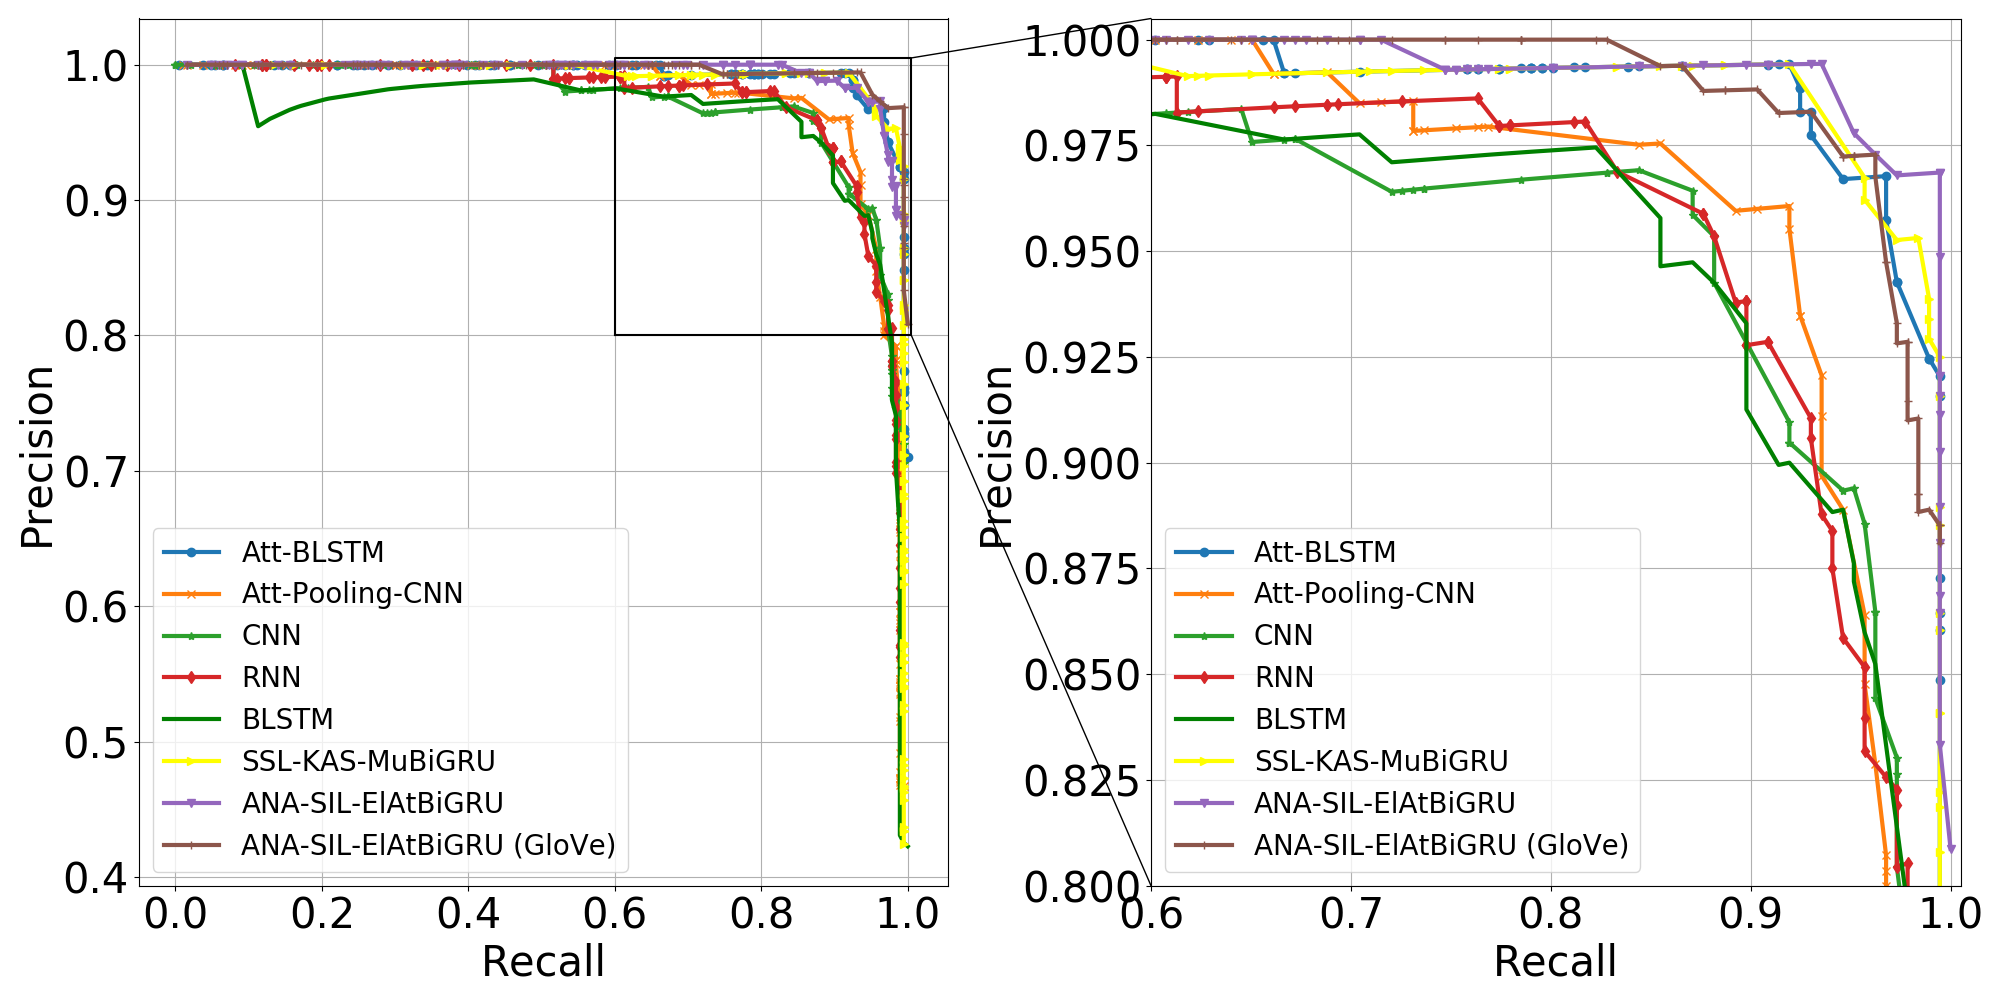
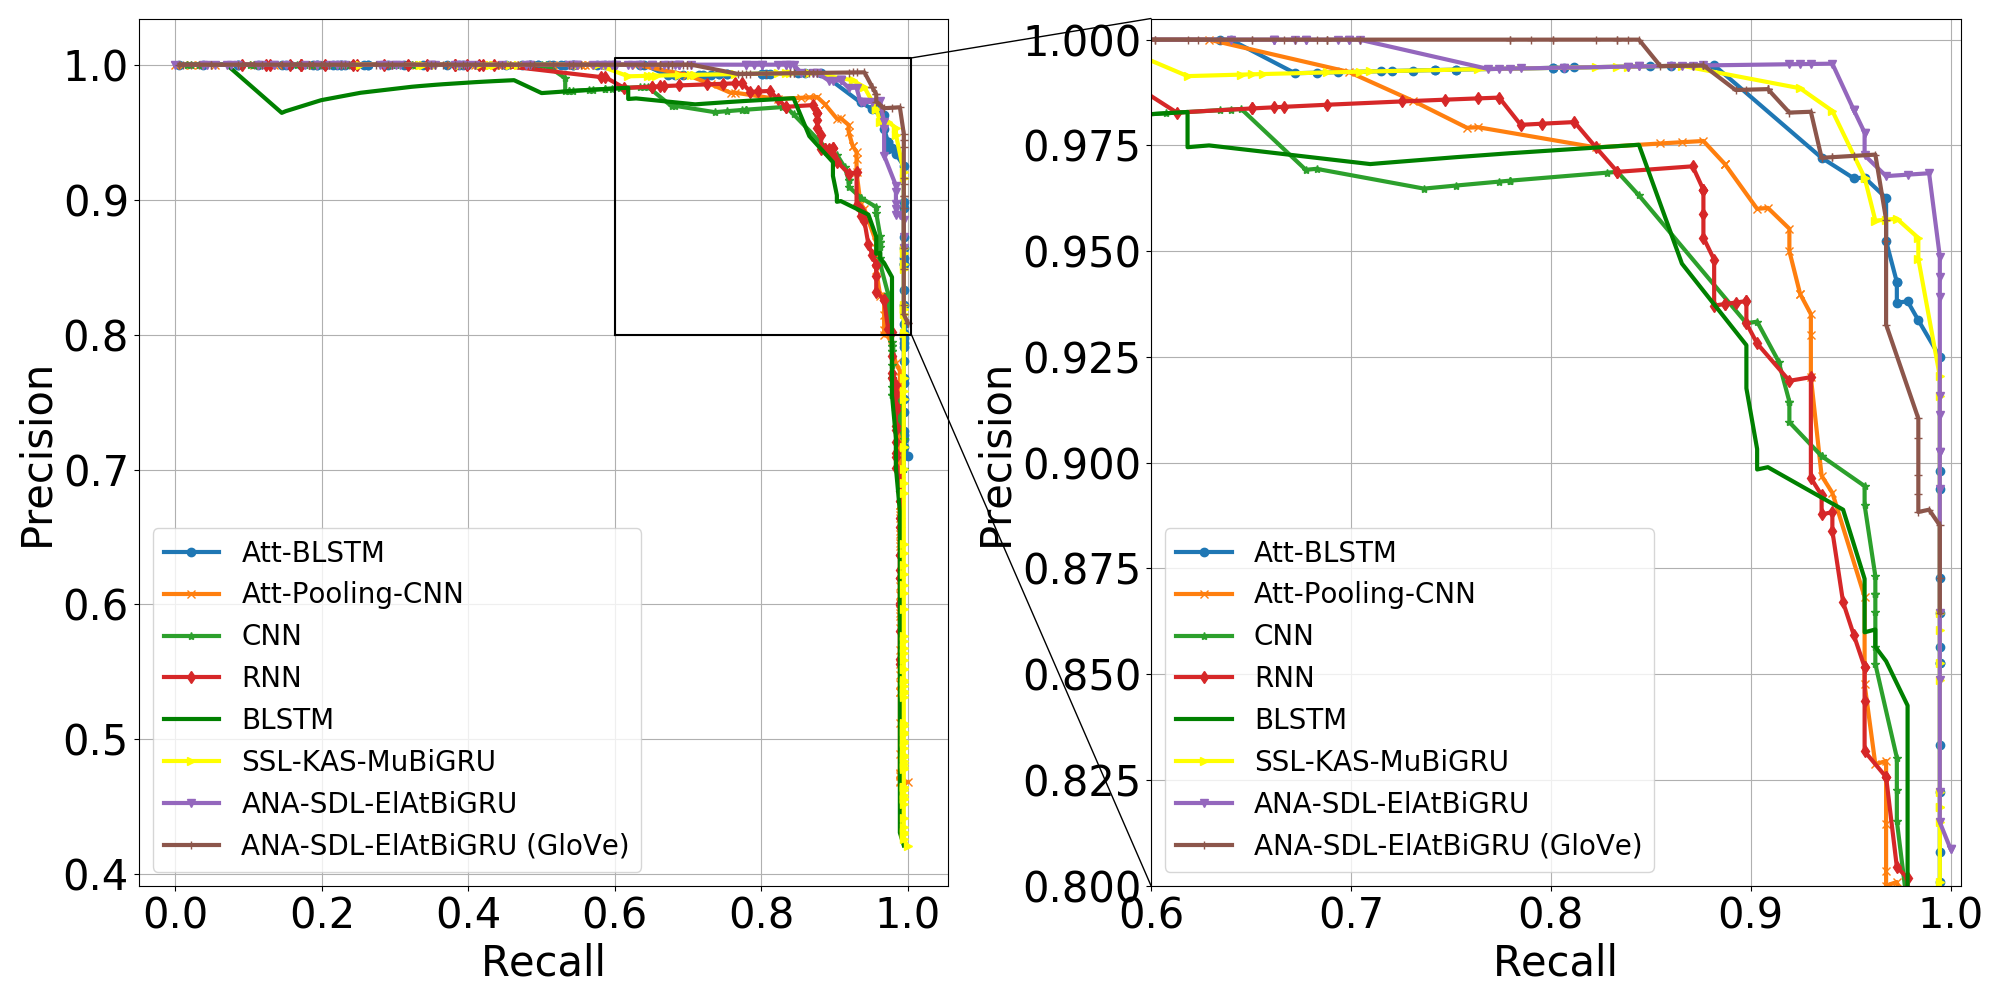
add SDL

diff --git a/ANASLELMO_in_Conll/anaSdlElmoModel.py b/ANASLELMO_in_Conll/anaSdlElmoModel.py
@@ -23,7 +23,7 @@ import os
 from dataProcessConll import ELMO_CONLL
 from customLayers import Input_keywords_DotLayer, concat_attention_layer3_1, concat_attention_layer3_2, concat_attention_layer3_3
 from customLoss import Stimulation_loss
-from ComparedLossFun.CenterLoss import center_loss, neg_center_loss
+from ComparedLossFun.CenterLoss import center_loss, neg_center_loss, sdl
 
 import smtplib
 from email.mime.text import MIMEText
@@ -118,15 +118,15 @@ class Network:
         # self.save_result = "../result/1/result.txt"
 
         # save ACCURACY picture path
-        self.save_picAcc_path = "../result/ANA-CL-ElAtBiGRU/train-test-accuracy.jpg"
+        self.save_picAcc_path = "../result/ANA-SDL-ElAtBiGRU/train-test-accuracy.jpg"
         # save F1 picture path
-        self.save_picF1_path = "../result/ANA-CL-ElAtBiGRU/f1.jpg"
-        self.save_picAllAcc_path = "../result/ANA-CL-ElAtBiGRU/test_all_accuracy.jpg"
-        self.save_picAllRec_path = "../result/ANA-CL-ElAtBiGRU/test_all_recall.jpg"
+        self.save_picF1_path = "../result/ANA-SDL-ElAtBiGRU/f1.jpg"
+        self.save_picAllAcc_path = "../result/ANA-SDL-ElAtBiGRU/test_all_accuracy.jpg"
+        self.save_picAllRec_path = "../result/ANA-SDL-ElAtBiGRU/test_all_recall.jpg"
         # save train loss picture path
-        self.save_lossTrain_path = "../result/ANA-CL-ElAtBiGRU/train_loss.jpg"
+        self.save_lossTrain_path = "../result/ANA-SDL-ElAtBiGRU/train_loss.jpg"
         # save test loss picture path
-        self.save_lossTest_path = "../result/ANA-CL-ElAtBiGRU/test_loss.jpg"
+        self.save_lossTest_path = "../result/ANA-SDL-ElAtBiGRU/test_loss.jpg"
         # save result file
         self.save_result = "../result/ANA-CL-ElAtBiGRU/result.txt"
 
@@ -142,7 +142,7 @@ class Network:
 
         """ PR-data """
         # self.pr_data = '../result/experiment_PR/1/ANA-SL-ElAtBiGRU_conll04.npz'
-        self.pr_data = '../result/experiment_PR/ANA-CL-ElAtBiGRU_conll04.npz'
+        self.pr_data = '../result/experiment_PR/ANA-SDL-ElAtBiGRU_conll04.npz'
 
     def bulit_gru(self, input_var=None, mask_var=None, input_root=None, input_e1=None, input_e2=None):
         """
@@ -483,7 +483,7 @@ if __name__ == "__main__":
     l_split = lasagne.layers.get_output(l_merge_output)
 
     _, wrong_pre, true_pre, stimulative = Stimulation_loss(prediction, target_var)
-    center_loss_value, new_centers = neg_center_loss(l_split, target_var, model.alpha, centers)
+    center_loss_value, new_centers = sdl(l_split, target_var, model.alpha, centers)
     center_loss_value = model.cl_lambda * center_loss_value
     loss = stimulative * lasagne.objectives.categorical_crossentropy(prediction, target_var)
 
@@ -512,7 +512,7 @@ if __name__ == "__main__":
 
     # loss, wrong_pre, true_pre, stimulative = Stimulation_loss(l_merge_output, target_var)
     _, wrong_pre, true_pre, stimulative = Stimulation_loss(prediction, target_var)
-    center_loss_value, new_centers = neg_center_loss(l_split, target_var, model.alpha, centers)
+    center_loss_value, new_centers = sdl(l_split, target_var, model.alpha, centers)
     loss_batch = stimulative * lasagne.objectives.categorical_crossentropy(prediction, target_var)
     center_loss_value = model.cl_lambda * center_loss_value
     loss = T.mean(loss_batch + center_loss_value, dtype=theano.config.floatX)

diff --git a/ANASLELMO_in_Conll/prExperiment.py b/ANASLELMO_in_Conll/prExperiment.py
@@ -211,8 +211,8 @@ p1.plot(recall["cnn_kbp2"], precision["cnn_kbp2"], '*-', label="CNN", linewidth=
 p1.plot(recall["rnn_kbp2"], precision["rnn_kbp2"], 'd-', label="RNN", linewidth='3')
 p1.plot(recall["blstm2"], precision["blstm2"], 'g-', label="BLSTM", linewidth='3')
 p1.plot(recall["ana_sl_elatbigru_glove2"], precision["ana_sl_elatbigru_glove2"], '>-', color='yellow', label="SSL-KAS-MuBiGRU", linewidth='3')
-p1.plot(recall["ana_sil_elatbigru2"], precision["ana_sil_elatbigru2"], 'v-', label="ANA-SIL-ElAtBiGRU", linewidth='3')
-p1.plot(recall["ssl_kas_mubigru2"], precision["ssl_kas_mubigru2"], '+-', label="ANA-SIL-ElAtBiGRU (GloVe)", linewidth='3')
+p1.plot(recall["ana_sil_elatbigru2"], precision["ana_sil_elatbigru2"], 'v-', label="ANA-SDL-ElAtBiGRU", linewidth='3')
+p1.plot(recall["ssl_kas_mubigru2"], precision["ssl_kas_mubigru2"], '+-', label="ANA-SDL-ElAtBiGRU (GloVe)", linewidth='3')
 
 # plot the box
 tx0 = 0.6
@@ -236,8 +236,8 @@ p2.plot(recall["cnn_kbp2"], precision["cnn_kbp2"], '*-', label="CNN", linewidth=
 p2.plot(recall["rnn_kbp2"], precision["rnn_kbp2"], 'd-', label="RNN", linewidth='3')
 p2.plot(recall["blstm2"], precision["blstm2"], 'g-', label="BLSTM", linewidth='3')
 p2.plot(recall["ana_sl_elatbigru_glove2"], precision["ana_sl_elatbigru_glove2"], '>-', color='yellow', label="SSL-KAS-MuBiGRU", linewidth='3')
-p2.plot(recall["ssl_kas_mubigru2"], precision["ssl_kas_mubigru2"], 'v-', label="ANA-SIL-ElAtBiGRU", linewidth='3')
-p2.plot(recall["ana_sil_elatbigru2"], precision["ana_sil_elatbigru2"], '+-', label="ANA-SIL-ElAtBiGRU (GloVe)", linewidth='3')
+p2.plot(recall["ssl_kas_mubigru2"], precision["ssl_kas_mubigru2"], 'v-', label="ANA-SDL-ElAtBiGRU", linewidth='3')
+p2.plot(recall["ana_sil_elatbigru2"], precision["ana_sil_elatbigru2"], '+-', label="ANA-SDL-ElAtBiGRU (GloVe)", linewidth='3')
 p2.legend(loc='best', fontsize=20)
 p2.grid()  # open grid
 

diff --git a/ComparedLossFun/CenterLoss.py b/ComparedLossFun/CenterLoss.py
@@ -144,6 +144,40 @@ def neg_center_loss(features, labels, alpha, centers):
     return loss_neg, centers
 
 
+def sdl(features, labels, alpha, centers):
+    """
+    梯度更新公式更新cneter
+    :param features:
+    :param labels:
+    :param alpha:
+    :param centers:
+    :return:
+    """
+    # 将特征reshape成一维
+    labels_index = T.reshape(T.argmax(labels, axis=1), [-1])
+    labels_index = T.cast(labels_index, "int32")
+
+    # loss_neg, labels_neg_index, centers_batch = cal_neg_distance(features, centers[:], labels_index)
+    labels_neg_index = cal_neg_distance(features, centers[:], labels_index)
+
+    # 获取当前batch每个样本对应的中心
+    centers_batch = centers[labels_neg_index]
+    # 计算center loss的数值
+    loss_neg = np.log(1 + np.exp(-T.sum((features - centers_batch) ** 2, axis=1) / 2.0))
+
+    # 以下为更新中心的步骤
+    diff = (features - centers_batch) * T.reshape((1 - 1 / (1 + np.exp(-T.sum((features - centers_batch) ** 2, axis=1) / 2.0))), (-1, 1))
+
+    # 获取一个batch中同一样本出现的次数，这里需要理解论文中的更新公式
+    unique_label, appear_times, diff = unique_with_counts(labels_neg_index, diff)
+    diff = alpha * diff
+
+    # 更新中心
+    centers = scatter_sub(centers[:], labels_neg_index, diff)
+
+    return loss_neg, centers
+
+
 if __name__ == "__main__":
     features = T.fmatrix("features")
     labels = T.imatrix("labels")
